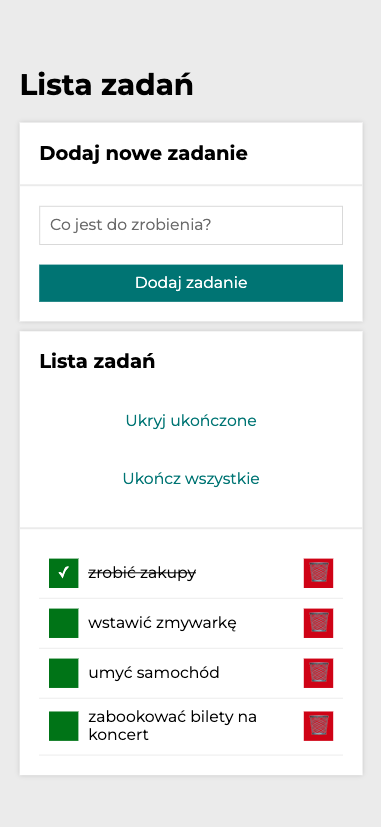
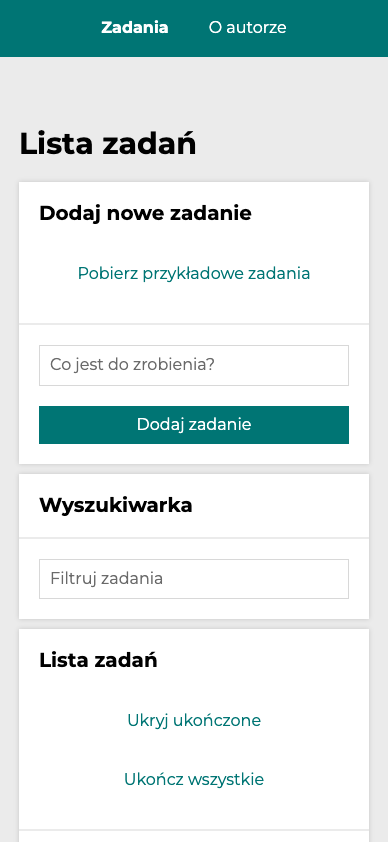
updated README.md

Changed region(s): [[0.0289, 0.1511, 0.9528, 0.6348], [0.0577, 0.6651, 0.9528, 0.9674], [0.0, 0.0, 1.0, 0.1209]]

diff --git a/README.md b/README.md
@@ -18,10 +18,14 @@
 - Buttons are interactive and its appearance depends of actual state
 - You can mark any task that is done, hide/show done tasks, and mark all done with one button
 - Your actual task list is saved in your local storage and fetched whenever you refresh the app or close the window
+- You can download example tasks using fetch shot from Redux-Saga
+- You can filter the tasks by content using search input
+- You can check indiviual subpage for every task
+- Two main pages built with ReactRouter: TaskList/Author
 
 ## How to use
 
-**1.** Input the name of your task or shopping item that you want to add to your list.
+**1.** Input the name of your task or shopping item that you want to add to your list. / or download example tasks using button i right upper corner of the app.
 
 **2.** _"Click"_ adding the task button on the right side of the input - "_Dodaj zadanie_".
 
@@ -33,7 +37,13 @@
 
 **6.** After you add a task, there will be able 2 additional options: "Hide/Show tasks that are done" and "Finish all tasks".
 
-**7.** Use one of those options to manage your list easier.
+**7.** You can filter your tasks and search the exact one you want by typing task content in the form field above the tasks.
+
+**8.** You can read additional info about the author in the second page switch on the navber in the page header.
+
+**9.** You can check the individual task status by clicking on task content. App will redirect you to the subpage.
+
+**10.** Use those options to manage your list easier.
 
 ![App design](./to_do_list_react_screenshot.png)
 
@@ -41,8 +51,10 @@
 
 - **React.js** - Components, JSX, React DOM
 - **React Hooks** - useState, useEffect, useRef
-- **Redux** state managment
+- **React Router:** app routing managing
+- **Redux:** state managing
 - **Redux Toolkit**
+- **Redux-Saga:** side effects handling
 - **Create React App**
 - **npm**
 - **Node.js**
